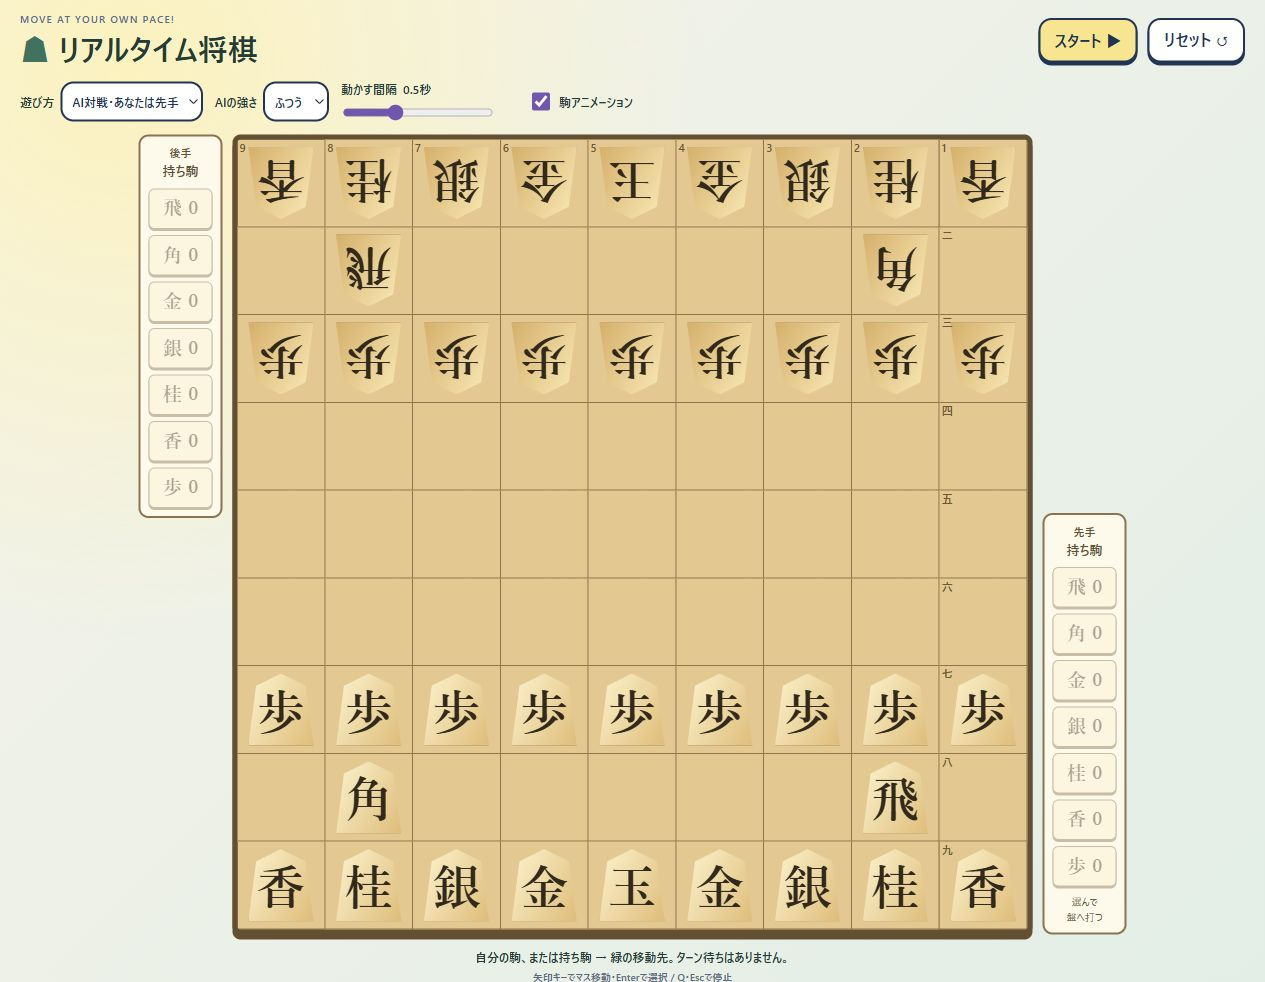
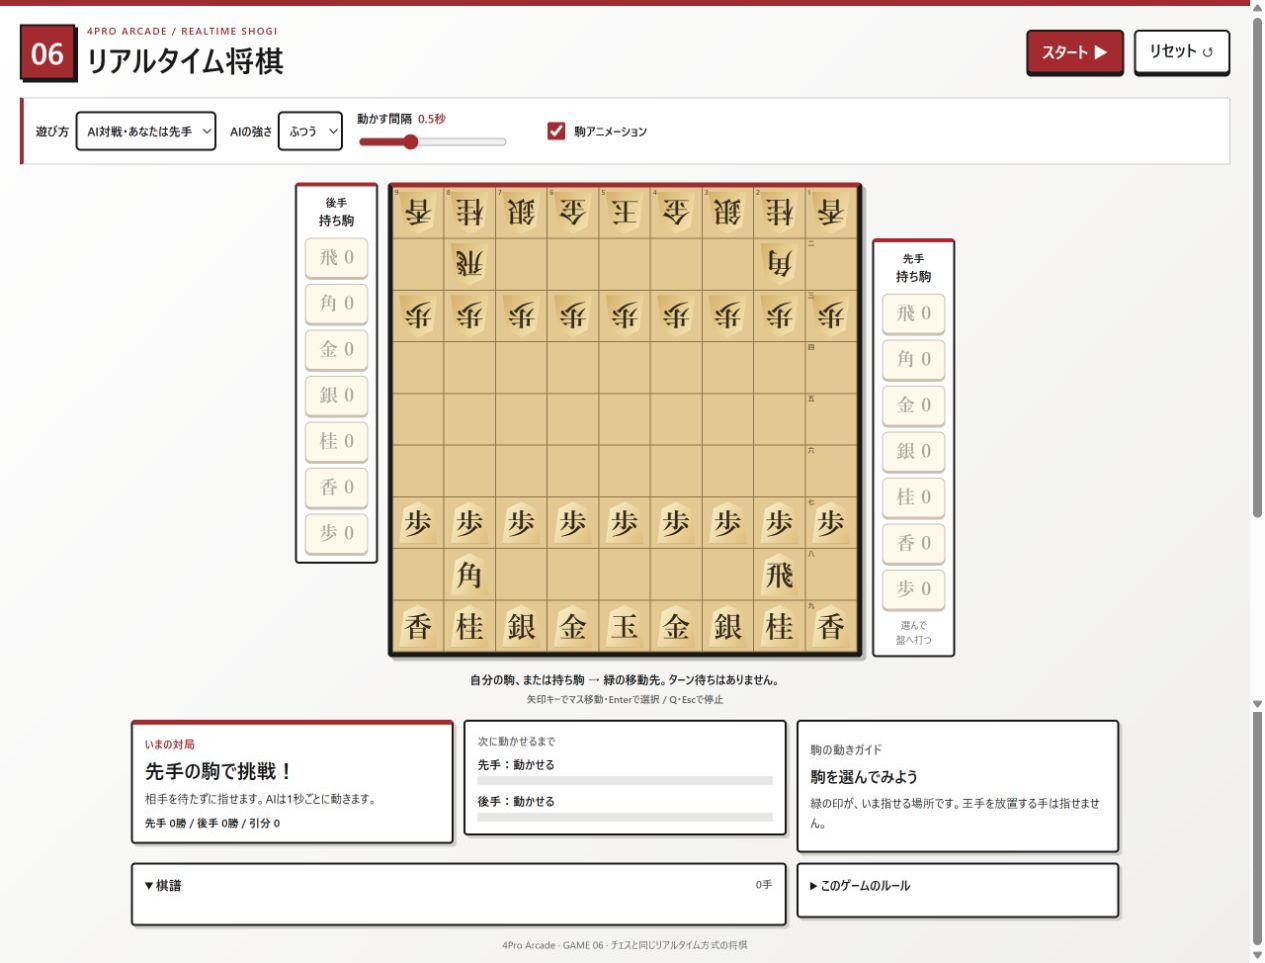
Match realtime shogi controls to red white and black arcade theme

diff --git a/games/realtime-shogi/web/style.css b/games/realtime-shogi/web/style.css
@@ -1,32 +1,34 @@
-:root{color-scheme:light;font-family:"Yu Gothic UI","Meiryo",system-ui,sans-serif;color:#193c36;background:#f5f2e8}
+:root{color-scheme:light;font-family:"Yu Gothic UI","Meiryo",system-ui,sans-serif;color:#181818;background:#f0efed;--red:#b71929;--ink:#181818}
 *{box-sizing:border-box}
-body{margin:0;min-height:100dvh;background:radial-gradient(circle at 10% 5%,#fff2b9,transparent 35%),linear-gradient(135deg,#f6f3e8,#dceee6)}
+body{margin:0;min-height:100dvh;border-top:6px solid var(--red);background:linear-gradient(135deg,#fff,#f0efed)}
 button,select,input{font:inherit}
-button,select{min-height:44px;border:2px solid #193457;border-radius:13px;background:#fff;color:#193457;font-weight:800;cursor:pointer}
-button{padding:8px 14px;box-shadow:0 3px 0 #193457;transition:transform .12s,box-shadow .12s}
-button:hover:not(:disabled){background:#fff8d2}
+button,select{min-height:44px;border:2px solid var(--ink);border-radius:5px;background:#fff;color:var(--ink);font-weight:800;cursor:pointer}
+button{padding:8px 14px;box-shadow:0 3px 0 var(--ink);transition:transform .12s,box-shadow .12s}
+button:hover:not(:disabled){background:#f6e4e6}
 button:active:not(:disabled){transform:translateY(3px);box-shadow:none}
 button:disabled{cursor:default;opacity:.65}
-button:focus-visible,select:focus-visible,input:focus-visible,summary:focus-visible{outline:3px solid #f68042;outline-offset:3px}
-.shell{max-width:1420px;padding:12px 20px 10px;margin:auto}
+button:focus-visible,select:focus-visible,input:focus-visible,summary:focus-visible{outline:3px solid var(--red);outline-offset:3px}
+.shell{max-width:1420px;padding:18px 20px 12px;margin:auto}
 .heading{display:flex;align-items:center;justify-content:space-between;gap:12px}
-.eyebrow{font-size:10px;letter-spacing:.12em;color:#506c91;margin:0 0 3px;font-weight:800}
+.game-title{display:flex;align-items:center;gap:12px}
+.game-number{display:grid;place-items:center;width:56px;height:56px;flex-shrink:0;background:var(--red);color:#fff;border:2px solid var(--ink);box-shadow:3px 3px var(--ink);font-size:30px;font-weight:900}
+.eyebrow{font-size:10px;letter-spacing:.14em;color:var(--red);margin:0 0 3px;font-weight:900}
 h1{font-size:clamp(20px,2.7vw,30px);margin:0;font-weight:900}
-h1 span{color:#24745e}
 h2{margin:6px 0;font-size:20px}
 .actions{display:flex;gap:10px;flex-shrink:0}
-.primary{background:#ffe482}.primary.running{background:#ffcfdf}
-.options{display:flex;align-items:center;flex-wrap:wrap;gap:12px;margin:12px 0;font-size:12px;font-weight:800}
+.primary{background:var(--red);color:#fff}.primary:hover:not(:disabled){background:#8e1120}.primary.running{background:var(--ink)}.primary.running:hover:not(:disabled){background:#404040}
+.options{display:flex;align-items:center;flex-wrap:wrap;gap:14px;margin:18px 0;padding:12px;background:#fff;border:1px solid #ccc;border-left:4px solid var(--red);font-size:12px;font-weight:800}
 .options label{display:flex;align-items:center;gap:6px}
 .options select{padding:6px;font-size:12px;min-height:40px}
 .cooldown-option{flex-wrap:wrap;max-width:175px}
-.cooldown-option input{width:150px;accent-color:#7854b2}
-.animation-option input{width:18px;height:18px;accent-color:#7854b2}
-.notice{padding:10px 14px;border-radius:12px;border:2px solid #d58826;background:#fff5d2;margin-bottom:10px;font-weight:700}
+.cooldown-option output{color:var(--red);font-variant-numeric:tabular-nums}
+.cooldown-option input{width:150px;accent-color:var(--red)}
+.animation-option input{width:18px;height:18px;accent-color:var(--red)}
+.notice{padding:10px 14px;border-radius:4px;border:2px solid var(--red);background:#fff0f1;margin-bottom:10px;font-weight:700}
 /* The board gets the main row; match information sits underneath it. */
 .play-layout{display:grid;grid-template-columns:minmax(0,1fr);gap:12px}
-.board-area{--board-size:min(calc(100vw - 228px),calc(100dvh - 180px),800px);min-width:0;display:grid;grid-template-columns:84px minmax(0,var(--board-size)) 84px;justify-content:center;align-items:start;gap:10px}
-.board-wrap{position:relative;width:100%;margin:0;border:5px solid #694e2d;border-radius:8px;box-shadow:0 5px 0 #694e2d;overflow:hidden;background:#694e2d;container-type:inline-size}
+.board-area{--board-size:min(calc(100vw - 228px),calc(100dvh - 240px),800px);min-width:0;display:grid;grid-template-columns:84px minmax(0,var(--board-size)) 84px;justify-content:center;align-items:start;gap:10px}
+.board-wrap{position:relative;width:100%;margin:0;border:5px solid var(--ink);border-top-color:var(--red);border-radius:4px;box-shadow:4px 4px 0 #bbb;overflow:hidden;background:#694e2d;container-type:inline-size}
 .board{display:grid;grid-template-columns:repeat(9,minmax(0,1fr));aspect-ratio:1}
 .square{position:relative;border:0;border-right:1px solid #977442;border-bottom:1px solid #977442;border-radius:0;box-shadow:none;padding:0;min-height:0;aspect-ratio:1;background:#ebc78a;display:grid;place-items:center}
 .square:hover:not(:disabled){background:#c4dfa4}
@@ -45,42 +47,49 @@ h2{margin:6px 0;font-size:20px}
 .countdown{position:absolute;inset:0;display:grid;place-items:center;pointer-events:none;font-size:clamp(70px,14vw,140px);font-weight:900;color:#fff4a5;text-shadow:4px 5px #193457;background:#19345730}
 .countdown[hidden]{display:none}
 /* Komadai stay on opposite sides of the board, including on narrow screens. */
-.hand-tray{width:100%;margin:0;padding:8px;border:2px solid #92724c;border-radius:10px;background:#fff9e9}
+.hand-tray{width:100%;margin:0;padding:8px;border:2px solid var(--ink);border-top:4px solid var(--red);border-radius:4px;background:#fff}
 .opponent-hand{align-self:start}.player-hand{align-self:end}
-.hand-tray h2{font-size:11px;line-height:1.5;margin:0 0 8px;text-align:center;color:#655031}
+.hand-tray h2{font-size:11px;line-height:1.5;margin:0 0 8px;text-align:center;color:var(--ink)}
 .hand-tray h2 span{display:block;font-size:13px}
 .hand-pieces{display:grid;grid-template-columns:1fr;gap:6px}
 .hand-pieces button{width:100%;min-width:0;min-height:38px;border:1px solid #92724c;border-radius:6px;padding:4px 0;box-shadow:0 2px 0 #92724c;font-family:"Yu Mincho",serif;font-size:19px;white-space:nowrap;background:#fff1ce;color:#49351d}
 .hand-pieces button:disabled{opacity:.45}
 .hand-pieces button.selected{background:#a4dcb0;outline:2px solid #287653}
-.hand-hint{text-align:center;font-size:10px;line-height:1.5;margin:8px 0 0;color:#655031}
+.hand-hint{text-align:center;font-size:10px;line-height:1.5;margin:8px 0 0;color:#666}
 .hint{grid-column:1/-1;text-align:center;font-size:12px;font-weight:800;line-height:1.6;margin:3px 0 0}
-.hint span{font-size:10px;color:#526984}#play-hint{font-size:inherit;color:inherit}
+.hint span{font-size:10px;color:#666}#play-hint{font-size:inherit;color:inherit}
 .side{display:grid;grid-template-columns:repeat(3,minmax(0,1fr));gap:10px;align-items:start;max-width:1000px;width:100%;margin:auto}
-.side section,.history-panel{border:2px solid #193457;border-radius:16px;background:#ffffffda;padding:12px;box-shadow:0 3px 0 #193457}
-.status-panel{background:#fff4c9!important}
-.panel-label{margin:0;font-weight:900;font-size:11px;letter-spacing:.04em;color:#566c87}
+.side section,.history-panel{border:2px solid var(--ink);border-radius:4px;background:#fff;padding:12px;box-shadow:3px 3px 0 #d1d0ce}
+.status-panel{border-top:5px solid var(--red)!important}
+.status-panel .panel-label{color:var(--red)}
+.panel-label{margin:0;font-weight:900;font-size:11px;letter-spacing:.04em;color:#666}
 #status-detail{font-size:12px;line-height:1.5;margin:6px 0}
-.matches{font-size:11px;font-weight:800;margin:8px 0 0;color:#7854a3}
+.matches{font-size:11px;font-weight:800;margin:8px 0 0;color:var(--ink)}
 .cooldown-panel div{margin-top:8px;font-size:12px;font-weight:800}
-.cooldown-panel progress{display:block;width:100%;height:10px;accent-color:#7754b2;margin-top:3px}
+.cooldown-panel progress{display:block;width:100%;height:9px;accent-color:var(--red);margin-top:4px;border:0;background:#e9e7e5;border-radius:0;overflow:hidden}
+.cooldown-panel progress::-webkit-progress-bar{background:#e9e7e5}
+.cooldown-panel progress::-webkit-progress-value{background:var(--red)}
+.cooldown-panel progress::-moz-progress-bar{background:var(--red)}
+#black-bar{accent-color:var(--ink)}
+#black-bar::-webkit-progress-value{background:var(--ink)}
+#black-bar::-moz-progress-bar{background:var(--ink)}
 .piece-guide p,.rules-help p{font-size:12px;line-height:1.7;margin:6px 0}.piece-guide h2{font-size:16px}
 .history-panel summary{cursor:pointer;font-weight:800;font-size:13px;min-height:28px}
-.history-panel summary span{float:right;font-size:11px;color:#687f98}
+.history-panel summary span{float:right;font-size:11px;color:#666}
 .history-panel ol{max-height:100px;overflow:auto;margin:8px 0 0;padding-left:22px;font-size:11px;line-height:1.9}
-.history-panel li:last-child{font-weight:800;color:#5c3da5}
+.history-panel li:last-child{font-weight:800;color:var(--red)}
 .history-panel{grid-column:span 2}.rules-help{grid-column:span 1;font-size:11px}
-footer{text-align:center;color:#617c98;font-size:10px;margin-top:12px}
-dialog{border:3px solid #193457;border-radius:22px;background:#effcff;color:#193457;padding:24px;width:min(430px,92vw);box-shadow:0 10px 0 #193457}
-dialog::backdrop{background:#19345799}dialog p{font-size:13px}
+footer{text-align:center;color:#666;font-size:10px;margin-top:12px}
+dialog{border:3px solid var(--ink);border-top:6px solid var(--red);border-radius:5px;background:#fff;color:var(--ink);padding:24px;width:min(430px,92vw);box-shadow:6px 6px 0 var(--ink)}
+dialog::backdrop{background:#181818b3}dialog p{font-size:13px}
 .promotion-options{display:grid;grid-template-columns:1fr 1fr;gap:12px;margin:18px 0}
 @media(max-width:850px){
   .shell{padding:10px 12px}.options{gap:8px}
-  .board-area{--board-size:min(calc(100vw - 184px),calc(100dvh - 170px),800px);grid-template-columns:70px minmax(0,var(--board-size)) 70px;gap:8px}
+  .board-area{--board-size:min(calc(100vw - 184px),calc(100dvh - 230px),800px);grid-template-columns:70px minmax(0,var(--board-size)) 70px;gap:8px}
   .hand-tray{padding:6px}.hand-pieces{gap:5px}.hand-pieces button{font-size:17px;min-height:34px}
 }
 @media(max-width:650px){
-  .shell{padding:10px 8px}.heading{flex-wrap:wrap}.heading h1{font-size:22px}.actions{gap:8px}
+  .shell{padding:10px 8px}.heading{flex-wrap:wrap}.game-title{gap:10px}.game-number{width:44px;height:44px;font-size:25px}.eyebrow{font-size:8px}.heading h1{font-size:22px}.actions{gap:8px}
   .actions button{font-size:12px;padding:6px 10px;min-height:38px}
   .options{gap:6px;margin:10px 0}.options label{font-size:11px}.options select{min-height:38px;font-size:11px}
   .cooldown-option{max-width:160px}.cooldown-option input{width:130px}

diff --git a/games/realtime-shogi/web/index.html b/games/realtime-shogi/web/index.html
@@ -1,9 +1,9 @@
 <!doctype html>
 <html lang="ja">
-<head><meta charset="utf-8"><meta name="viewport" content="width=device-width,initial-scale=1"><meta name="theme-color" content="#e9c58c"><title>リアルタイム将棋</title><link rel="icon" href="data:,"><link rel="stylesheet" href="style.css"></head>
+<head><meta charset="utf-8"><meta name="viewport" content="width=device-width,initial-scale=1"><meta name="theme-color" content="#b71929"><title>リアルタイム将棋</title><link rel="icon" href="data:,"><link rel="stylesheet" href="style.css"></head>
 <body>
 <main class="shell">
-  <header class="heading"><div><p class="eyebrow">MOVE AT YOUR OWN PACE!</p><h1><span aria-hidden="true">☗</span> リアルタイム将棋</h1></div><div class="actions"><button id="start" class="primary" disabled>スタート ▶</button><button id="reset" disabled>リセット ↺</button></div></header>
+  <header class="heading"><div class="game-title"><span class="game-number" aria-hidden="true">06</span><div><p class="eyebrow">4PRO ARCADE / REALTIME SHOGI</p><h1>リアルタイム将棋</h1></div></div><div class="actions"><button id="start" class="primary" disabled>スタート ▶</button><button id="reset" disabled>リセット ↺</button></div></header>
   <div class="options" aria-label="対局設定">
     <label>遊び方<select id="mode" disabled><option value="ai">AI対戦・あなたは先手</option><option value="aivsai">AI同士を観戦</option></select></label>
     <label>AIの強さ<select id="level" disabled><option value="weak">よわい</option><option value="normal" selected>ふつう</option><option value="strong">つよい</option></select></label>
@@ -28,6 +28,6 @@
   </div>
   <footer>4Pro Arcade · GAME 06 · チェスと同じリアルタイム方式の将棋</footer>
 </main>
-<dialog id="promotion"><h2>この駒を成りますか？</h2><p>成ると駒の動きが変わります。</p><div class="promotion-options"><button data-promotion="yes">成る</button><button data-promotion="no">成らない</button></div><button id="promotion-cancel">キャンセル</button></dialog>
+<dialog id="promotion"><h2>この駒を成りますか？</h2><p>成ると駒の動きが変わります。</p><div class="promotion-options"><button data-promotion="yes" class="primary">成る</button><button data-promotion="no">成らない</button></div><button id="promotion-cancel">キャンセル</button></dialog>
 <script src="game.js"></script>
 </body></html>

diff --git a/showcase/assets/technology.md b/showcase/assets/technology.md
@@ -19,3 +19,7 @@
 - `brain-mole-play.png`：`games/local/tesuto/` の基礎数学のプレイ画面。赤・黒・白のUIに統一し、穴を2×2の4個に減らし、茶色のモグラに大きな白い答えの札を持たせています。
 
 図はHTMLとCSSによる説明用の模式図です。魚の割合・反応時間は `fishing.js` の魚データ、チェスの待ち時間・AIは `web_game.py` と `chess/ai.py`、クイズの得点・時間は `tesuto/web_game.py` に対応します。ゲーム側の設定を変えたときは本文と図、画像の代替テキストも合わせて更新してください。
+
+## リアルタイム将棋
+
+- `realtime-shogi-ready.png`：2026年10月29日にこのPCの `games/realtime-shogi/` を起動して撮影した開始前の画面。外枠・操作ボタン・情報パネルを赤・黒・白に揃え、木目の盤面・駒・緑の移動先表示は元のデザインを使っています。生成画像ではありません。
